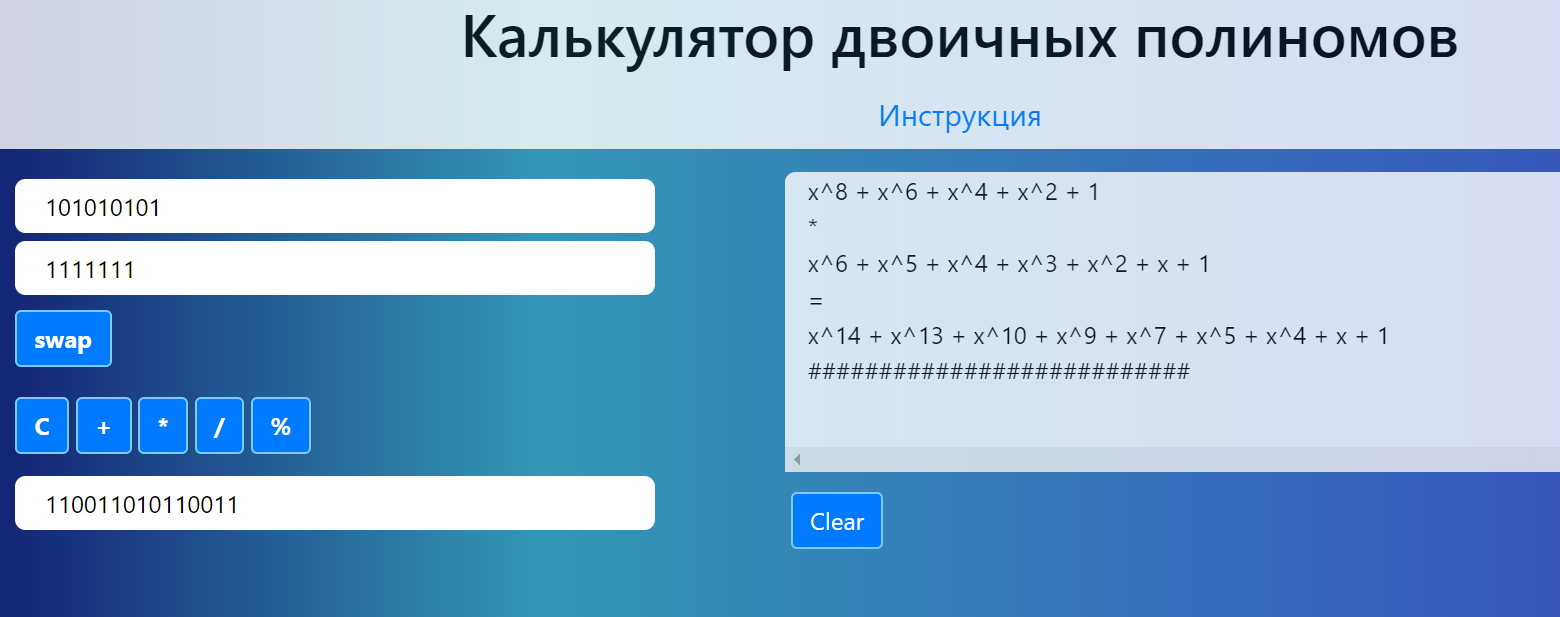
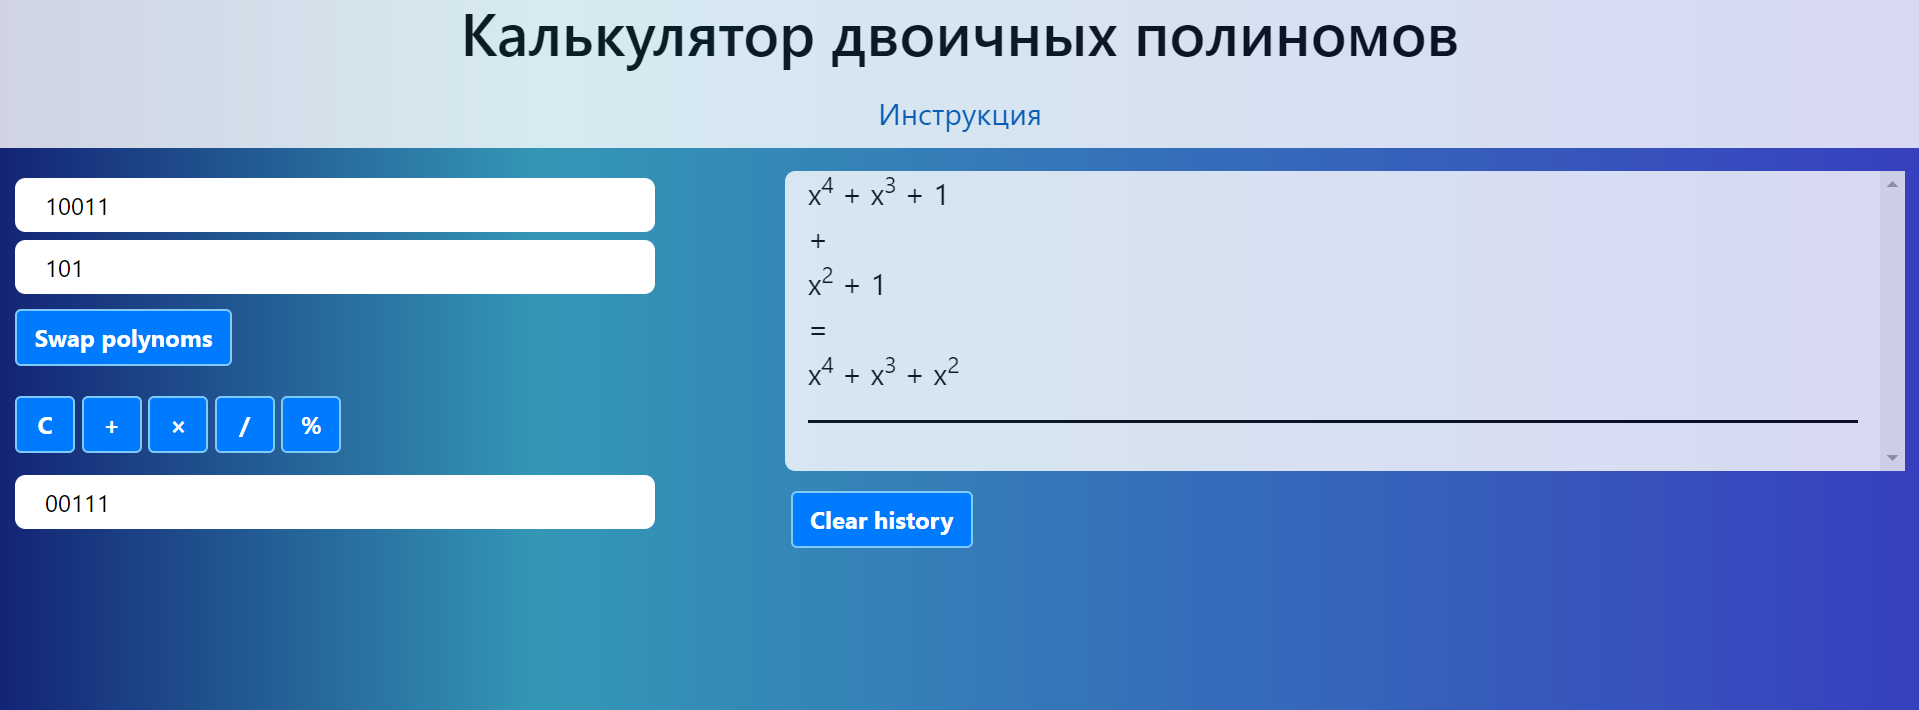
ui updates

diff --git a/index.html b/index.html
@@ -26,27 +26,27 @@
 			<div class="row">
 				<div class="col-4 dimon-comp">
 					<div class="row">
-						<input class = "inputfield col " id="firstinput">
+						<input class = "inputfield col " id="firstinput" value="First polynom">
 					</div>
 					<div class="row">
-						<input class = "inputfield col" id="secondinput">
+						<input class = "inputfield col" id="secondinput" value="Second polynom">
 						</div>
 						<div class="row">
 							<div class="col" id=div-swp-btn>
-						<button id="swap" class="btn btn-primary buttonBorder"><b>swap</b></button>
+						<button id="swap" class="btn btn-primary buttonBorder"><b>Swap polynoms</b></button>
 						</div>
 						</div>						
 					<div id="buttons" class="row">
 						<div class="col">
 						<button id="clear" class="btn btn-primary m-b-10 buttonBorder"><b>C</b></button>
 						<button id="sum" class="btn btn-primary m-b-10 buttonBorder"><b>+</b></button>
-						<button id="mult" class="btn btn-primary m-b-10 buttonBorder"><b>*</b></button>
+						<button id="mult" class="btn btn-primary m-b-10 buttonBorder"><b>×</b></button>
 						<button id="div" class="btn btn-primary m-b-10 buttonBorder"><b>/</b></button>
 						<button id="mod" class="btn btn-primary m-b-10 buttonBorder"><b>%</b></button>
 						</div>
 					</div>
 					<div class = "outputfield row">
-						<input class = "inputfield col" id="output">
+						<input class = "inputfield col" id="output" value="Result polynom" disabled>
 					</div>
 					
 				</div>
@@ -69,9 +69,13 @@
             			В истории вычислений многочлен можно переместить в первое поле для ввода по нажатию на него
             		</li>
             	</ul>
-            			<img src="inst.png">
+            			<div id="cf">
+            					<img class="bottom" src="inst2.png">
+            					<img class="top" src="inst.png">
+            			</div>
+            			
             	<ul>
-            		<li>
+            		<li style="padding-top: 8px;">
             			Замечания по работе калькулятора отправляйте на почту автора <a href="mailto:dm1parf@gmail.com">dm1parf@gmail.com</a>
             		</li>
             		
@@ -88,7 +92,7 @@
 </div>
 <div class="row">
 	<div class="col"></div>
-	<div class="col" style="text-align: left; margin: -2% 0px 0px -20%"><button id="clear-history"class="btn btn-primary  buttonBorder">Clear</button></div>
+	<div class="col" style="text-align: left; margin: -2% 0px 0px -20%"><button id="clear-history"class="btn btn-primary  buttonBorder"><b>Clear history</b></button></div>
 </div>
 		</div>
 

diff --git a/script.js b/script.js
@@ -16,6 +16,8 @@ const history_div = document.getElementById("history");
 
 let iter = 0;
 let sign;
+let input1_clicked = 0;
+let input2_clicked = 0;
 
 function calc(choice){
 	first = getArray(input1_field);
@@ -83,7 +85,7 @@ function showPolynom(array, field){
 		if (array[i] == 1){
 			if (i != array.length-1)
 				field.innerHTML += " + ";
-			field.innerHTML += "x^" + i;
+			field.innerHTML += "x<sup>" + i + "</sup>";
 		}
 	}
 	if (array[1] == 1){
@@ -159,10 +161,6 @@ function cutArray(arr){
 }
 
 function clear(){
-	poly1_field.innerHTML = " ";
-	poly2_field.innerHTML = " ";
-	sign_div.innerHTML = " ";
-	outPoly_field.innerHTML = " ";
 	input1_field.value = "";
 	input2_field.value = "";
 	out_field.value = "";
@@ -213,13 +211,13 @@ function makeHistory(arr1, arr2, arrResult, sign, iter){
 	showPolynom(arrResult, div);
 	div.addEventListener('click', function(){input1_field.value = arrResult.join("")});
 	iter++;
-
+	
 	div = document.createElement("div");
 	div.id = "history" + iter;
 	history_div.appendChild(div);
-	div.innerHTML = "###########################" ;
+	div.innerHTML = "<hr>" ;
 	iter++;
-
+	
 	return iter;
 }
 
@@ -237,3 +235,5 @@ mod_button.addEventListener('click', function(){calc(4);});
 swap_button.addEventListener('click', swapInputs);
 clear_button.addEventListener('click', clear);
 clearHistory_button.addEventListener('click', clearHistory);
+input1_field.addEventListener('click', function(){if(input1_clicked ==0){input1_field.value=""; input1_clicked++}});
+input2_field.addEventListener('click', function(){if(input2_clicked ==0){input2_field.value=""; input2_clicked++}});

diff --git a/style.css b/style.css
@@ -1,6 +1,6 @@
 .history
 {
-    overflow: scroll;
+    overflow-y: scroll;
     width: 50%;
     height: 200px;
 	margin: 15px 6%;
@@ -8,7 +8,8 @@
     color: black;
     background-color: white;
 	opacity: 0.8;
-	border-radius: 7px;
+	border-radius: 7px 0px 0px 7px;
+	font-size: 20px;
 }
 .dimon-comp {
 	width: 50%;
@@ -26,6 +27,10 @@
  	margin-left: -15px;
  	margin-top: 10px;
  	margin-bottom: 10px;
+ }
+
+ .m-b-10{
+ 	 	width: 40px;
  }
 
  .buttonBorder {
@@ -86,7 +91,30 @@ button:focus{
 	padding:0px;
 }
 
-img{
-	height: 60%;
-	width: 100%;
+hr{
+	border-width: 2px;
+	border-color: black;
+}
+
+#cf {
+  position:relative;
+  width:450px;
+  height: 170px;
+  margin:0 auto;
+}
+
+#cf img {
+	width: 450px;
+	height: 170px;
+  position:absolute;
+  border-radius: 7px;
+  left:0;
+  -webkit-transition: opacity 0.3s ease-in-out;
+  -moz-transition: opacity 0.3s ease-in-out;
+  -o-transition: opacity 0.3s ease-in-out;
+  transition: opacity 0.3s ease-in-out;
+}
+
+#cf img.top:hover {
+  opacity:0;
 }
